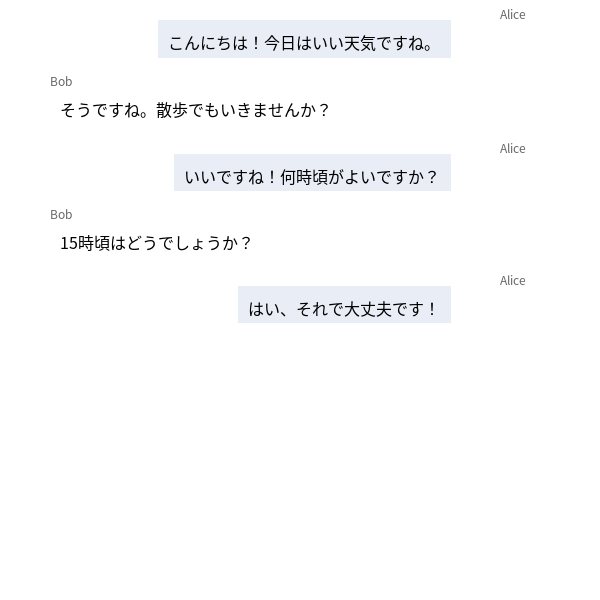
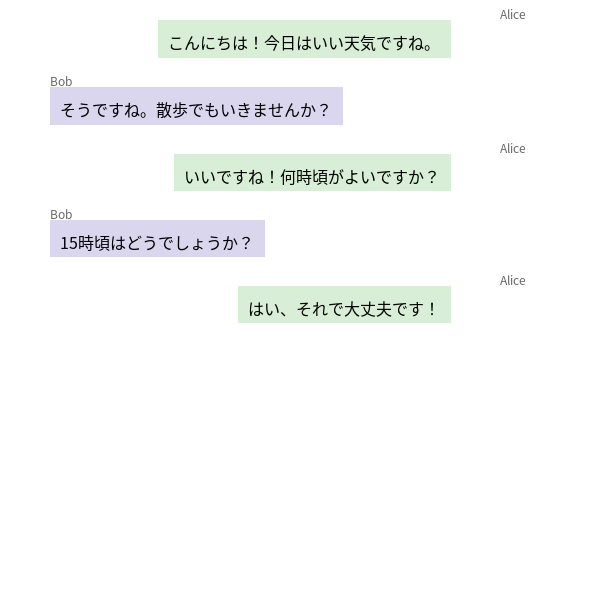
mod color

Changed region(s): [[0.06, 0.03, 0.75, 0.21], [0.06, 0.36, 0.75, 0.54], [0.27, 0.24, 0.75, 0.33]]

diff --git a/generate_image.py b/generate_image.py
@@ -52,7 +52,7 @@ def create_chat_bubble(draw, text, position, is_right=False, max_width=300):
         (x + bubble_width, y + bubble_height),
         (x, y + bubble_height)
     ]
-    bubble_color = "#E9EEF6" if is_right else "#FFFFFF"
+    bubble_color = "#D9EED6" if is_right else "#D9D6EE"
     draw.polygon(bubble_shape, fill=bubble_color)
 
     # テキストを描画
